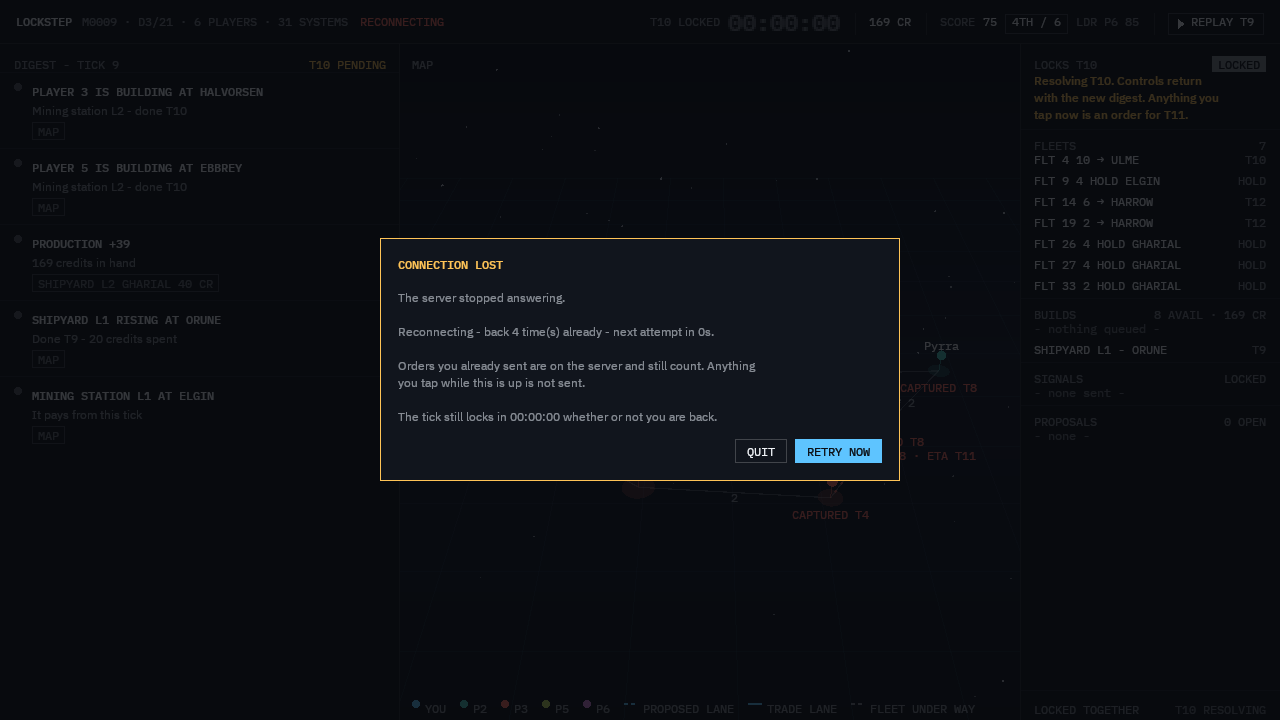
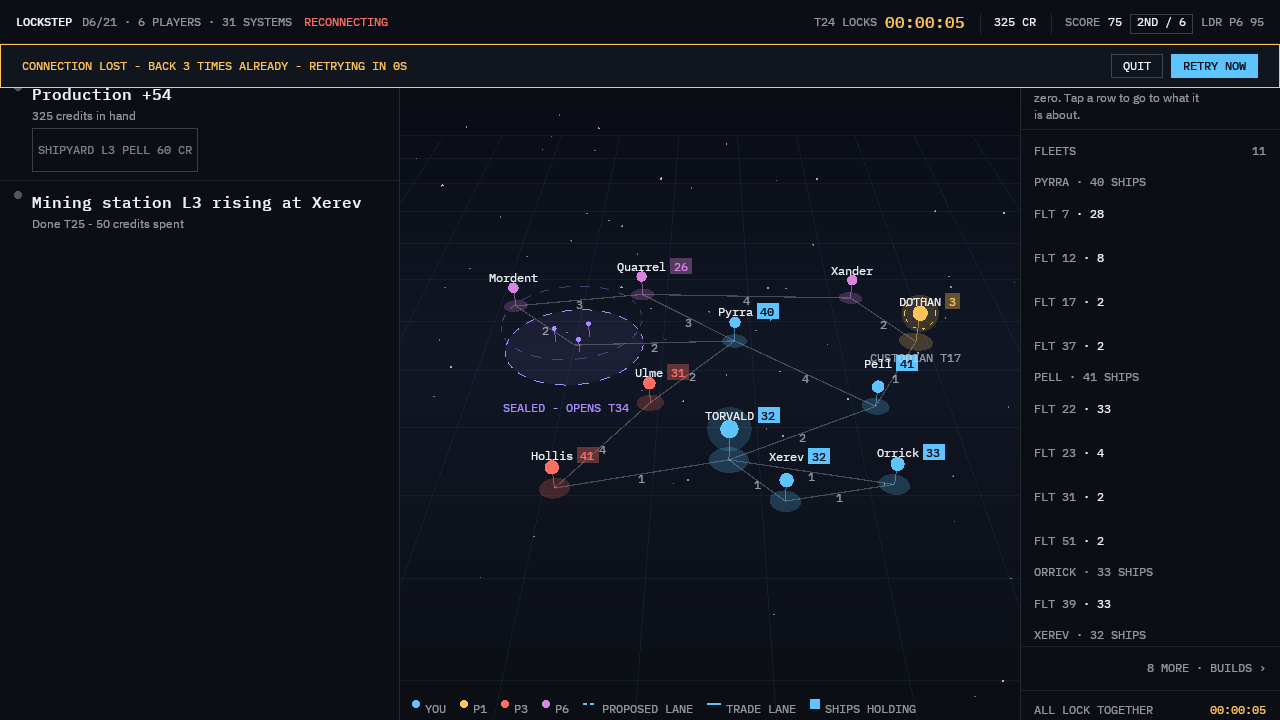
Retake the twelve captures that need no finger
Everything in UI-01 and UI-02 changed these screens: 44px targets moved
every row, the join card is 283px, the lobby's seat cards are 26px
taller each, the rail pages, and card titles stopped shouting. The
committed captures were from a build several ADRs old.

Twelve of the twenty-three need no tap, which is what makes them doable
on a locked desktop: PrintWindow(PW_RENDERFULLCONTENT) needs no
foreground and WM_KEYDOWN can be posted to a window on any desktop.
Enter is JOIN on the join screen, and every connection state is a server
misbehaving on cue rather than a control being pressed.

Two things were learned doing it, both in Design/UI/README.md now.

A board captured from a HUMAN seat is a board with nothing on it. Nobody
gives that seat orders, so it holds one fleet and one system for the
whole match and the capture documents the typography of an empty column.
Joining a BOT seat -- the server plays 2-6 with --bots 5 and their
tokens are the fixed phase-0 list -- puts the client in front of an
empire that has expanded, fought and built. 01-main-page now shows
eleven fleets, a played map and the rail's new page band reading
6 MORE - BUILDS, which is ADR-101 photographed rather than argued.

08-missed-digests needs the client to have SEEN a tick before it is
suspended. Suspended before the first lock it has drawn nothing, and a
reconnect with no previous tick is a first arrival rather than a gap:
the first run produced a plain DIGEST - TICK 7 with no SINCE YOU LOOKED
[…]

diff --git a/Design/UI/README.md b/Design/UI/README.md
@@ -135,6 +135,16 @@ poorly; it is a `--serve` match eleven ticks in instead, with thirty-five events
 ten fleets. The practice match is still what the sheet captures are taken from, because it is the
 quickest way to a tick-zero board with a `MOVE FLT n` card on it.
 
+**And it is taken from a BOT SEAT, which is the trick that makes a no-tap capture worth looking at**
+(2026-09-14). A human seat nobody gives orders for has one fleet and one system for the whole match,
+so every board captured without a finger was a board with nothing on it. The server plays seats 2-6
+with `--bots 5` and their tokens are the fixed phase-0 list, so `--join <host> --token bravo` puts
+the client in front of an empire that has expanded, fought and built -- eleven fleets, a rail deep
+enough to page, a digest with thirty events -- without a tap. `01-main-page`, `06-at-lock`,
+`08-missed-digests` and `04-connection-lost` are all taken that way, from one server in one run
+(scratch `RichShots.ps1`), because a store resumes on whatever tick wall-clock says and two runs are
+never at the same one.
+
 ## Photographing the build
 
 Done on 2026-09-12: every screen and state above was captured from the Debug build of the tree at
